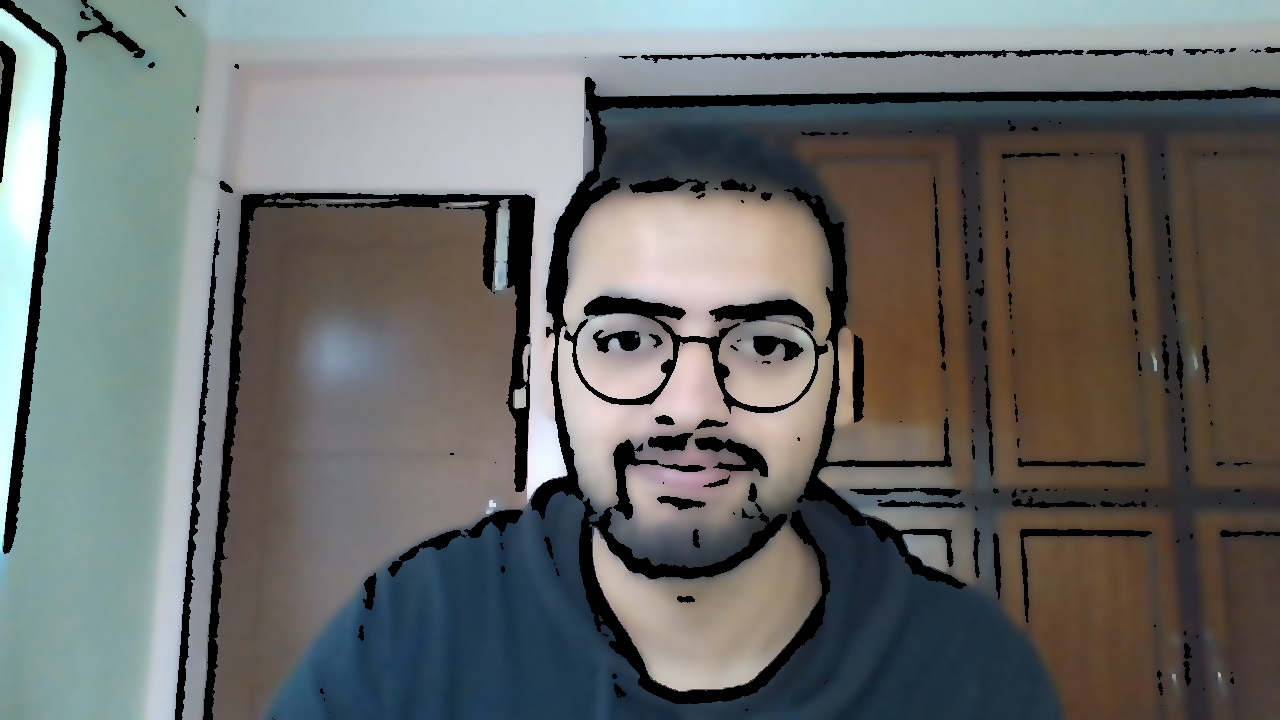
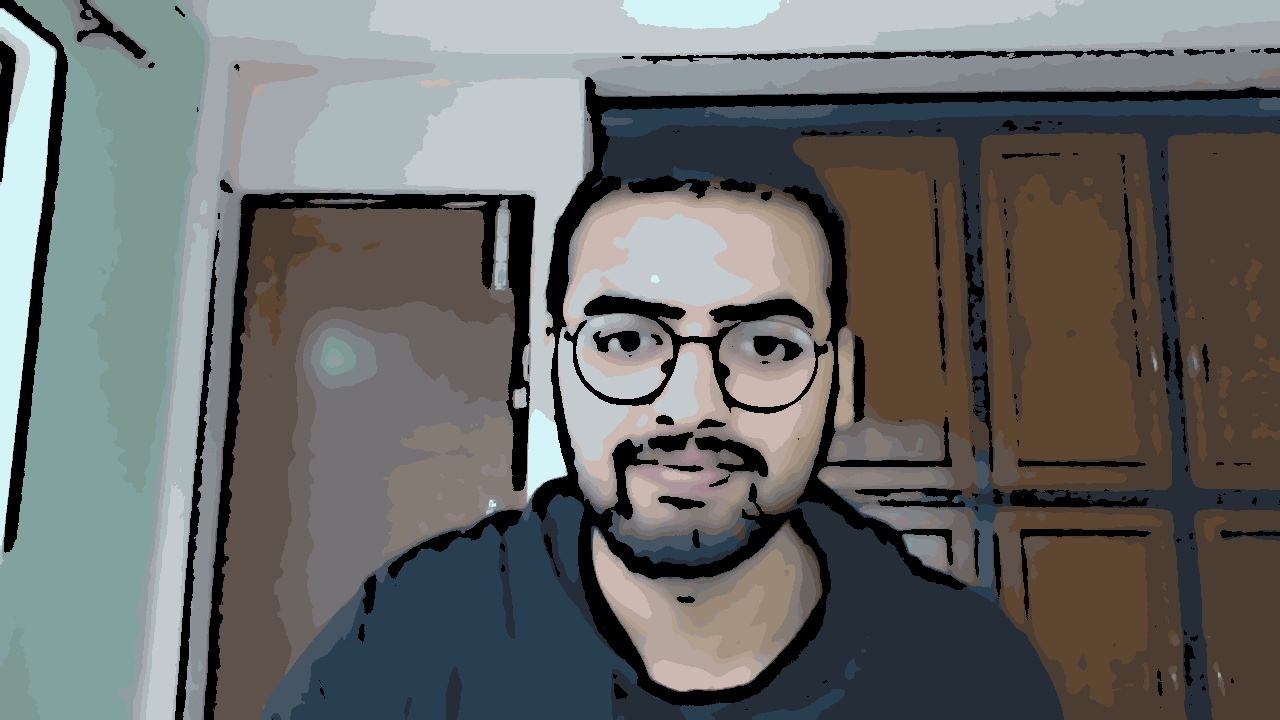
Updated algorithm to quantify colors using KMeans

diff --git a/cartoonify.py b/cartoonify.py
@@ -1,6 +1,7 @@
 import numpy as np
 import cv2
 import argparse
+import sys
 
 ap = argparse.ArgumentParser()
 ap.add_argument("-i", "--image", default="me.jpg", help="Path to the image")
@@ -25,25 +26,61 @@ class Cartoonify:
 
     def findEdges(self, img):
         '''Find Edges of an image'''
+        print("Finding Edges", end='\r', flush=True)
         gray = cv2.cvtColor(img, cv2.COLOR_BGR2GRAY)
-        gray = cv2.GaussianBlur(gray, (5, 5), 2)
-        img = cv2.adaptiveThreshold(gray, 255, cv2.ADAPTIVE_THRESH_MEAN_C,
-                                    cv2.THRESH_BINARY, 31, 11)
+        gray = cv2.bilateralFilter(gray, 7, 55, 175)
 
+        img = cv2.adaptiveThreshold(gray, 255, cv2.ADAPTIVE_THRESH_MEAN_C,
+                                    cv2.THRESH_BINARY, 13, 9)
         self.edges = img
+
+        print("Finding Edges... Done", flush=True)
 
         return img
 
     def findColors(self, img):
         '''Find linear colors in an image'''
+
         for _ in range(self.iterations):
-            img = cv2.bilateralFilter(img, 5, 50, 50)
+            img = cv2.bilateralFilter(img, 5, 40, 40)
+
         self.colored = img
+        return img
+
+    def findColorsV2(self, img, K=16):
+        '''Find Colors by dividing into subcubes'''
+        print("Finding Color", end='\r', flush=True)
+
+        img = cv2.bilateralFilter(img, 11, 75, 150)
+
+        Z = img.reshape((-1, 3))
+
+        # convert to np.float32
+        Z = np.float32(Z)
+
+        # define criteria, number of clusters(K) and apply kmeans()
+        criteria = (cv2.TERM_CRITERIA_EPS +
+                    cv2.TERM_CRITERIA_MAX_ITER, 10, 1.0)
+
+        ret, label, center = cv2.kmeans(
+            Z, K, None, criteria, 5, cv2.KMEANS_RANDOM_CENTERS)
+
+        # Now convert back into uint8, and make original image
+        center = np.uint8(center)
+        res = center[label.flatten()]
+        res = res.reshape((img.shape))
+        print("Finding Color... Done", flush=True)
+
+        self.colored = res
         return img
 
     def cartoonify(self):
         '''Cartoonify the image'''
+        print("Cartoonifying Image", end='\r', flush=True)
+        sys.stdout.flush()
         if(not self.edges is None and not self.colored is None):
+            print("Cartoonifying Image... Done", flush=True)
+
             return cv2.bitwise_and(self.colored, self.colored, mask=self.edges)
         else:
             raise Exception('No edged and colored images found')
@@ -56,7 +93,7 @@ def cartoonify_live():
         if not ret:
             break
 
-        cartoonify = Cartoonify(30)
+        cartoonify = Cartoonify(10)
 
         edges = cartoonify.findEdges(img)
         colors = cartoonify.findColors(img)
@@ -72,14 +109,15 @@ def cartoonify_live():
 
 
 def cartoonify_img(img):
-    cartoonify = Cartoonify(10)
+    cartoonify = Cartoonify(30)
 
     edges = cartoonify.findEdges(img)
-    colors = cartoonify.findColors(img)
+    # colors = cartoonify.findColors(img)
+    colors = cartoonify.findColorsV2(img, 16)
 
     cartoon = cartoonify.cartoonify()
     cv2.imwrite(args['output'], cartoon)
-
+    print('Saved to '+args['output'])
     cv2.imshow('cartoon', cartoon)
     cv2.waitKey(0)
 
